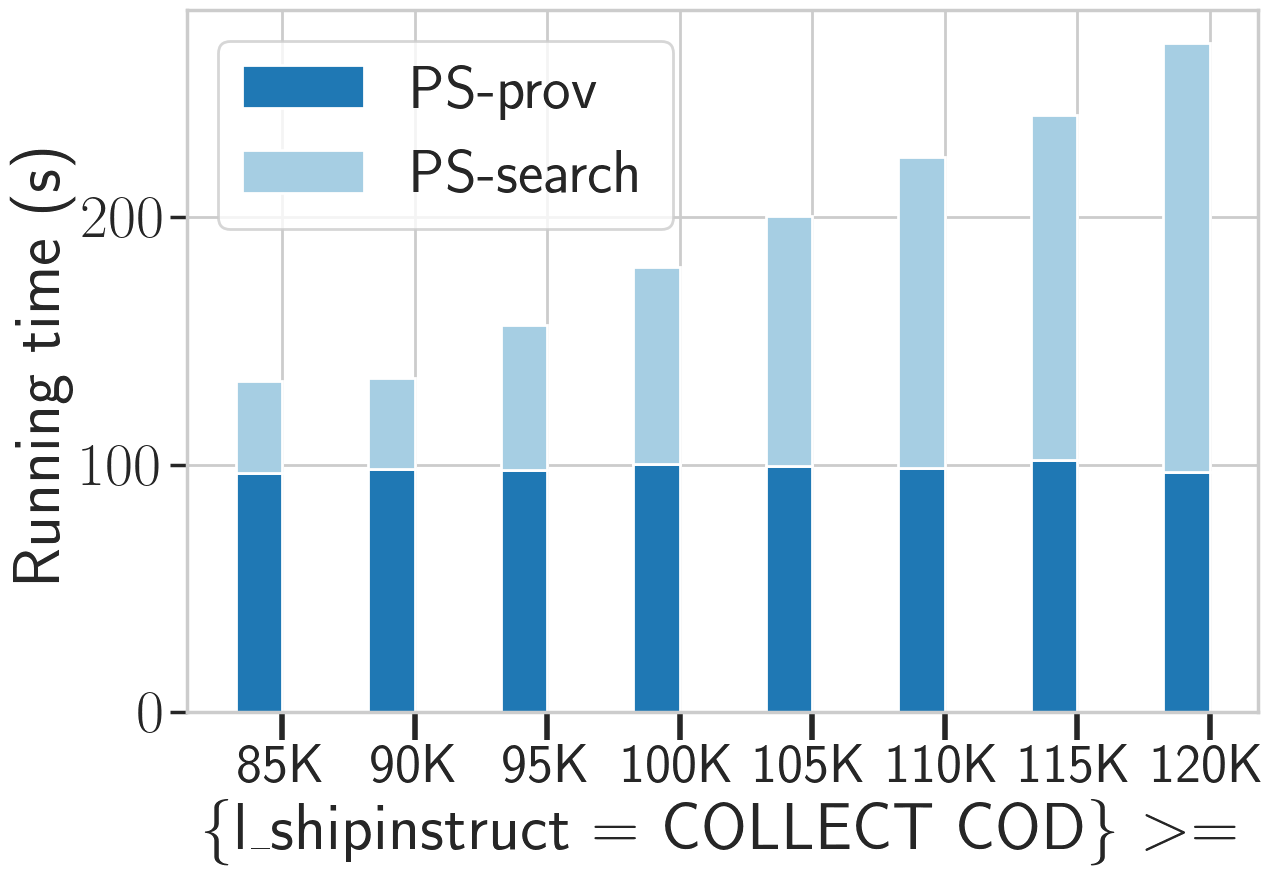
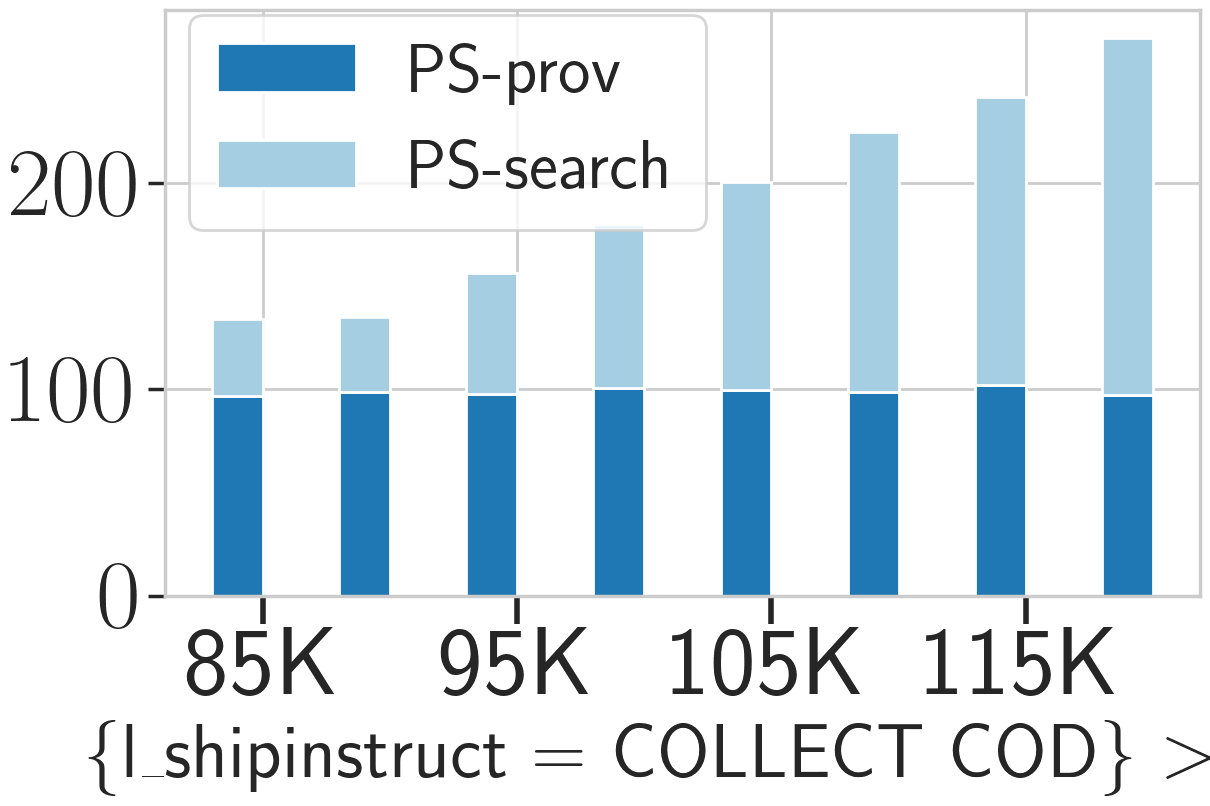
10G constraint change q12 relax

diff --git a/Experiment/TPCH/10G/constraint_change/q12_relax/fig.py b/Experiment/TPCH/10G/constraint_change/q12_relax/fig.py
@@ -7,9 +7,6 @@ import matplotlib.ticker as ticker
 import datetime
 from matplotlib.dates import AutoDateLocator, AutoDateFormatter, date2num
 
-plt.rc('text', usetex=True)
-plt.rc('font', family='serif')
-
 sns.set_palette("Paired")
 # sns.set_palette("deep")
 sns.set_context("poster", font_scale=2)
@@ -21,6 +18,8 @@ plt.rcParams['ytick.left'] = True
 
 color = ['C1', 'C0', 'C3', 'C2']
 label = ['PS-prov', "PS-search", "BL-prov", "BL-search"]
+plt.rc('text', usetex=True)
+plt.rc('font', size=70, weight='bold')
 
 f_size = (14, 10)
 
@@ -59,12 +58,12 @@ def run(query, size, constraint):
             execution_timebl1.append(0)
             execution_timebl2.append(0)
     # x_list = [19941230, 19950115, 19950130, 19950215, 19950230, 19950315, 19950330, 19950415]
-    x_list = ['85K', '90K', '95K', '100K', '105K', '110K', '115K', '120K']
+    x_list = ['85K',  '95K', '105K',  '115K']
 
     print(x_list, execution_timeps1, execution_timeps2)
 
     index = np.arange(len(execution_timeps1))
-    bar_width = 0.35
+    bar_width = 0.4
 
     fig, ax = plt.subplots(1, 1, figsize=f_size)
 
@@ -81,13 +80,12 @@ def run(query, size, constraint):
     # plt.bar(index + bar_width, execution_timebl2, bar_width, bottom=execution_timebl1,
     #         color=color[3], label=label[3])
     #
+    plt.xticks(np.arange(0, 8, 2) + bar_width/2, x_list, rotation=0, fontsize=70)
+    plt.yticks(fontsize=70, weight='bold')
 
-    plt.xticks(np.arange(0, 8) + bar_width/2, x_list, rotation=0, fontsize=40)
-
-    plt.xlabel(r'\{l_shipinstruct = COLLECT COD\} $>=$')
-    plt.ylabel('Running time (s)')
+    plt.xlabel(r'\{l_shipinstruct = COLLECT COD\} $>=$', fontsize=55)
     # plt.legend(loc='upper right', bbox_to_anchor=(0.98, 0.55))
-    plt.legend(loc="best")
+    plt.legend(loc="upper left", bbox_to_anchor=(-0.01, 1.05), fontsize=50)
     plt.tight_layout()
     fig_path = "constraint_change_q" + str(query) + "_" + size + "_" + constraint + ".png"
 
